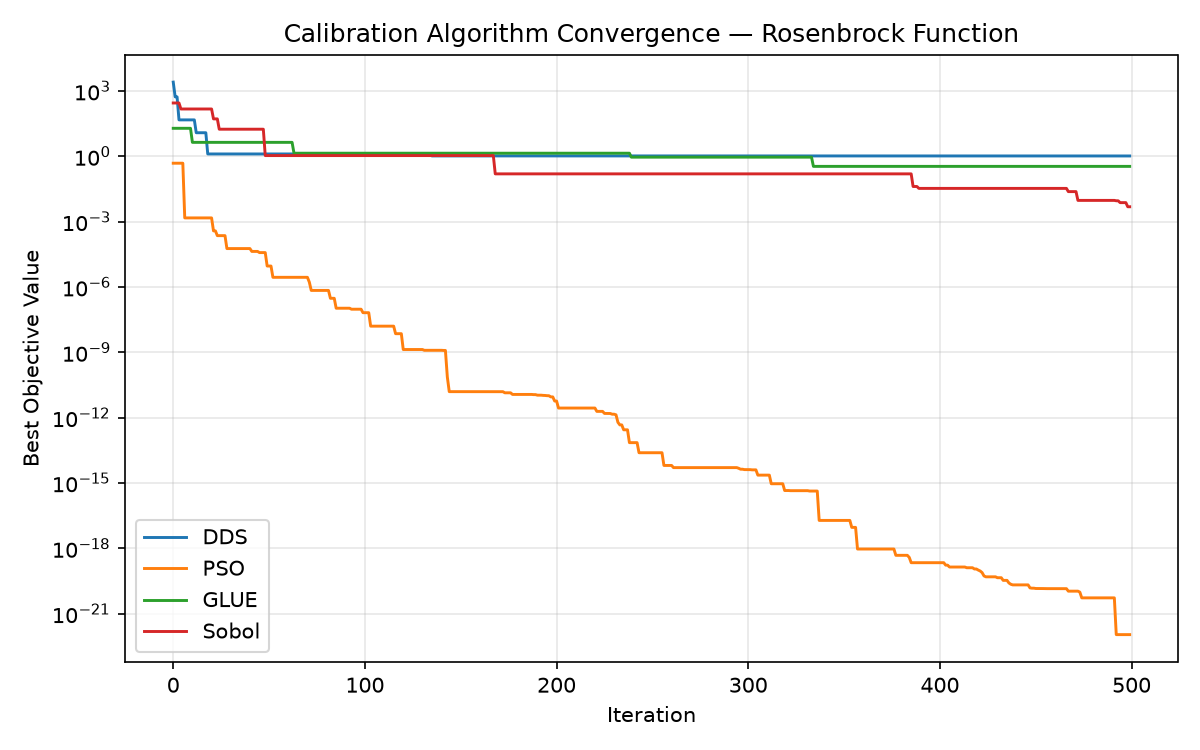
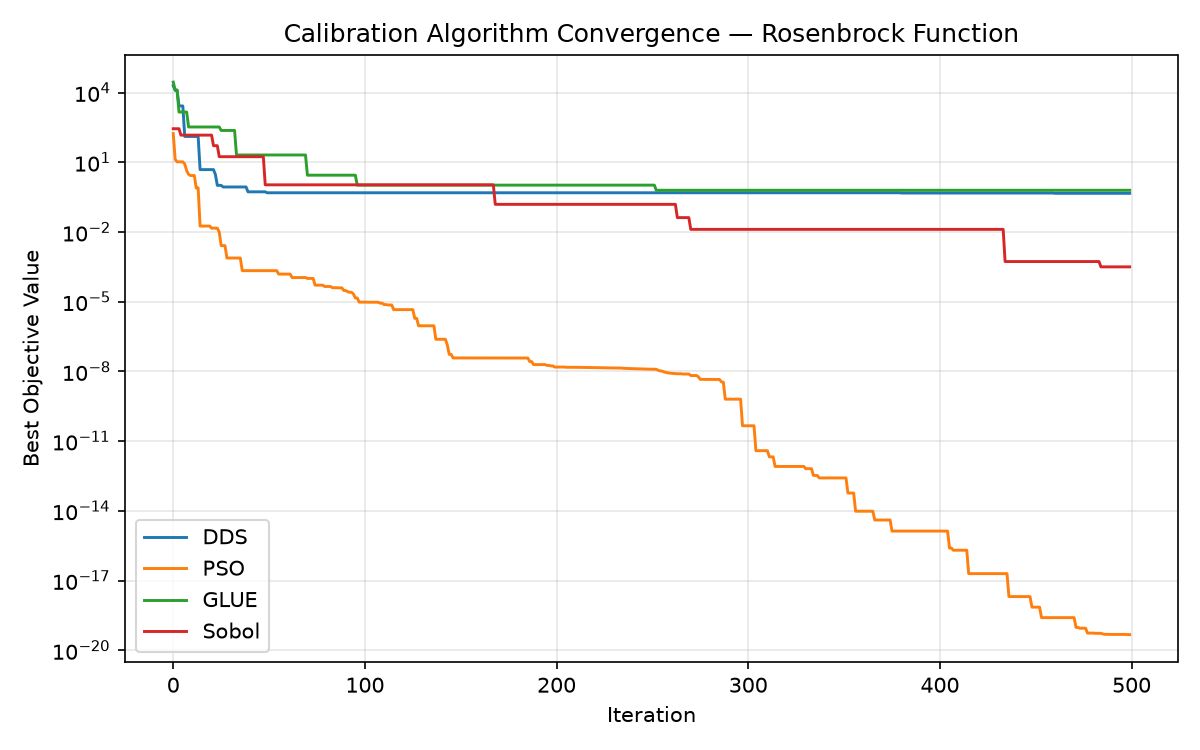
daily: update calibration benchmark results

diff --git a/docs/benchmarks.md b/docs/benchmarks.md
@@ -1,16 +1,16 @@
-<!-- fingerprint:314852ddf5e696395351fd484b92150f -->
+<!-- fingerprint:2cb471504b2117f8fc81927978585ed6 -->
 # Calibration Algorithm Benchmarks
 
-*Last updated: 2026-09-15 09:51 UTC*
+*Last updated: 2026-09-16 09:49 UTC*
 
 Synthetic benchmark on the **Rosenbrock** test function f(x,y) = (1−x)² + 100·(y−x²)²  with random starting points.
 
 | Algorithm | Iterations | Best Objective | Convergence Rate |
 |-----------|-----------|----------------|------------------|
-| DDS | 500 | 1.029210e+00 | 100.00% |
-| PSO | 500 | 1.087305e-22 | 100.00% |
-| GLUE | 500 | 3.425361e-01 | 94.50% |
-| Sobol | 500 | 4.798547e-03 | 99.62% |
+| DDS | 500 | 4.637887e-01 | 100.00% |
+| PSO | 500 | 4.717983e-20 | 100.00% |
+| GLUE | 500 | 6.262160e-01 | 100.00% |
+| Sobol | 500 | 3.165432e-04 | 99.62% |
 
 ![Convergence plot](benchmark-convergence.png)
 
